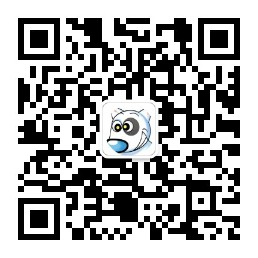
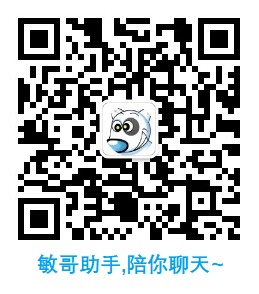
优化了author页的UI,换成了iconfont的矢量库图标

diff --git a/src/main/resources/templates/themes/default/index.html b/src/main/resources/templates/themes/default/index.html
@@ -5,48 +5,7 @@
     <img class="head-img" src="/static/admin/images/head-img.jpg">
 </div>
 <div class="main-content index-page clearfix">
-    <aside class="author">
-        <section class="author-card">
-            <div class="avatar">
-                <img src="/static/admin/images/author/avatar.png" />
-            </div>
-            <div class="author-name">zZ~pete</div>
-            <div class="author-bio">
-                           <p>
-                            程序员，极客，皮具爱好者，追求一切美的事物，好交良友。
-                           </p>
-            </div>
-            <ul class="links">
-                <li>
-                    <a class="" href="tencent://message/?uin=1094358629&Site=QQ交谈&Menu=yes" target="_top">
-                        <img src="/static/admin/images/author/QQ.png" />
-                    </a>
-                </li>
-                <li>
-                    <a href="https://www.zhihu.com/people/xu-er-min-28/activities" target="_blank">
-                        <img src="/static/admin/images/author/zhihu.png" />
-                    </a>
-                </li>
-                <li>
-                    <a href="http://music.163.com/#/user/home?id=424499784" target="_blank">
-                        <img src="/static/admin/images/author/163music.png" />
-                    </a>
-                </li>
-                <li>
-                    <a class="weixin" href="javascript:" >
-                        <img class="" src="/static/admin/images/author/weixin.png" />
-                        <img class="qrcode" src="/static/admin/images/author/qrcode.png" />
-                    </a>
-                </li>
-            </ul>
-        </section>
-        <section>
-            <a>111</a>
-            <a>111</a>
-            <a>111</a>
-            <a>111</a>
-        </section>
-    </aside>
+#include('./partial/author.html')
     <div class="post-lists">
         <div class="post-lists-body">
             #for(article : articles(12).rows)

diff --git a/src/main/resources/templates/themes/default/partial/header.html b/src/main/resources/templates/themes/default/partial/header.html
@@ -16,6 +16,7 @@
     <link href="${theme_url('/static/css/style.min.css')}" rel="stylesheet">
     <link href="${theme_url('/static/css/head-img.css')}" rel="stylesheet">
     <link href="https://fonts.googleapis.com/css?family=Kaushan Script" rel="stylesheet" type="text/css">
+    <link rel="stylesheet" type="text/css" href="${theme_url('/static/css/iconfont.css')}">
     #call cdn_url("jquery")
 
     <!--[if lt IE 9]>
@@ -34,6 +35,8 @@
         <div class="navbar-menu">
             <a href="${site_url('/')}">首页</a>
             <a href="${site_url('/archives')}">归档</a>
+            <a href="${site_url('/talks')}">时间轴</a>
+            <a href="${site_url('/leath')}" class="iconfont icon-qianbao">皮囊</a>
             <a href="${site_url('/links')}">友链</a>
             <a href="${site_url('/about')}">关于</a>
         </div>
@@ -50,6 +53,8 @@
             <span class="icon-menu cross"><span class="middle"></span></span>
             <ul>
                 <li><a href="${site_url('/archives')}">归档</a></li>
+                <li><a href="${site_url('/talks')}">时间轴</a></li>
+                <li><a href="${site_url('/leath')}" class="iconfont icon-qianbao">皮囊</a></li>
                 <li><a href="${site_url('/links')}">友链</a></li>
                 <li><a href="${site_url('/about')}">关于</a></li>
             </ul>

diff --git a/src/main/resources/templates/themes/default/static/css/head-img.css b/src/main/resources/templates/themes/default/static/css/head-img.css
@@ -97,40 +97,20 @@
 .weixin{
     position:relative;
 }
-.weixin img:nth-child(2){
+.weixin div{
     display:none;
 }
-.weixin:hover img:nth-child(2){
+.weixin:hover div{
+	width:100px; 
+    height:100px; 
     display:block;
-    position: absolute; top:80px;
-    transform:scale(6);
-}
-.sign-QQ {
-    float: left;
-    position:absolute;
-    padding: 10px 30px;
-    margin:10px 20px ;
-/*     background-color: #fff; */
-/*     border: 1px solid #e7eaf1; */
-    border-radius: 3px;
-/*     box-sizing: border-box; */
-/*     box-shadow: 0 1px 3px rgba(0,37,55,.06) */
-}
-.sign-QQ img{
-    width: 20px;
-    height: 20px;
-    
-}
-.sign-QQ form{
-    display:none;
-}
-.sign-QQ:hover form{
-    display:block;   
-}
-.sign-QQ-form {
-    width:150px;
-    height:100px;
-}
-.sign-QQ-form input {
-    width:100px;
+	position:fixed;
+	top:50%;
+    left:40%;
+    right:60%;
+    z-index:1;
+/*     margin:auto; */
+/*     margin-top:-100px; */
+/*     margin-left:-100px; */
+    transform:scale(3);
 }

diff --git a/src/main/resources/templates/admin/header.html b/src/main/resources/templates/admin/header.html
@@ -69,6 +69,9 @@
                     <li #if(active=='article') class="active" #end>
                         <a href="/admin/article" class="waves-effect #if(active=='article') active #end"><i class="fa fa-list" aria-hidden="true"></i><span> 文章管理 </span></a>
                     </li>
+                    <li #if(active=='talk') class="active" #end>
+                        <a href="/admin/talk" class="waves-effect #if(active=='talk') active #end"><i class="fa fa-list" aria-hidden="true"></i><span> 说说管理 </span></a>
+                    </li>
 
                     <li #if(active=='page') class="active" #end>
                         <a href="/admin/page" class="waves-effect #if(active=='page') active #end"><i class="fa fa-file-text" aria-hidden="true"></i><span> 页面管理 </span></a>

diff --git a/src/main/java/com/tale/controller/admin/ArticleController.java b/src/main/java/com/tale/controller/admin/ArticleController.java
@@ -19,6 +19,8 @@ import com.tale.model.entity.Users;
 import com.tale.service.ContentsService;
 import com.tale.service.MetasService;
 import com.tale.service.SiteService;
+import com.tale.service.TalkService;
+
 import lombok.extern.slf4j.Slf4j;
 
 import java.util.List;
@@ -40,6 +42,7 @@ public class ArticleController extends BaseController {
 
     @Inject
     private SiteService siteService;
+
 
     /**
      * 文章管理首页
@@ -71,6 +74,7 @@ public class ArticleController extends BaseController {
         request.attribute(Types.ATTACH_URL, Commons.site_option(Types.ATTACH_URL, Commons.site_url()));
         return "admin/article_edit";
     }
+   
 
     /**
      * 文章编辑页面
@@ -98,6 +102,7 @@ public class ArticleController extends BaseController {
      *
      * @return
      */
+    //FIXME
     @PostRoute(value = "publish")
     @JSON
     public RestResponse publishArticle(@Valid Contents contents) {

diff --git a/src/main/java/com/tale/controller/IndexController.java b/src/main/java/com/tale/controller/IndexController.java
@@ -202,6 +202,16 @@ public class IndexController extends BaseController {
 //        request.attribute("is_talk", true);
         return this.render("talks");
     }
+    /**
+     * 皮囊
+     *
+     * @return
+     */
+    //FIXME
+    @GetRoute(value = {"leath", "leath.html"})
+    public String leath(Request request) {
+        return this.render("leath");
+    }
 
     /**
      * feed页
